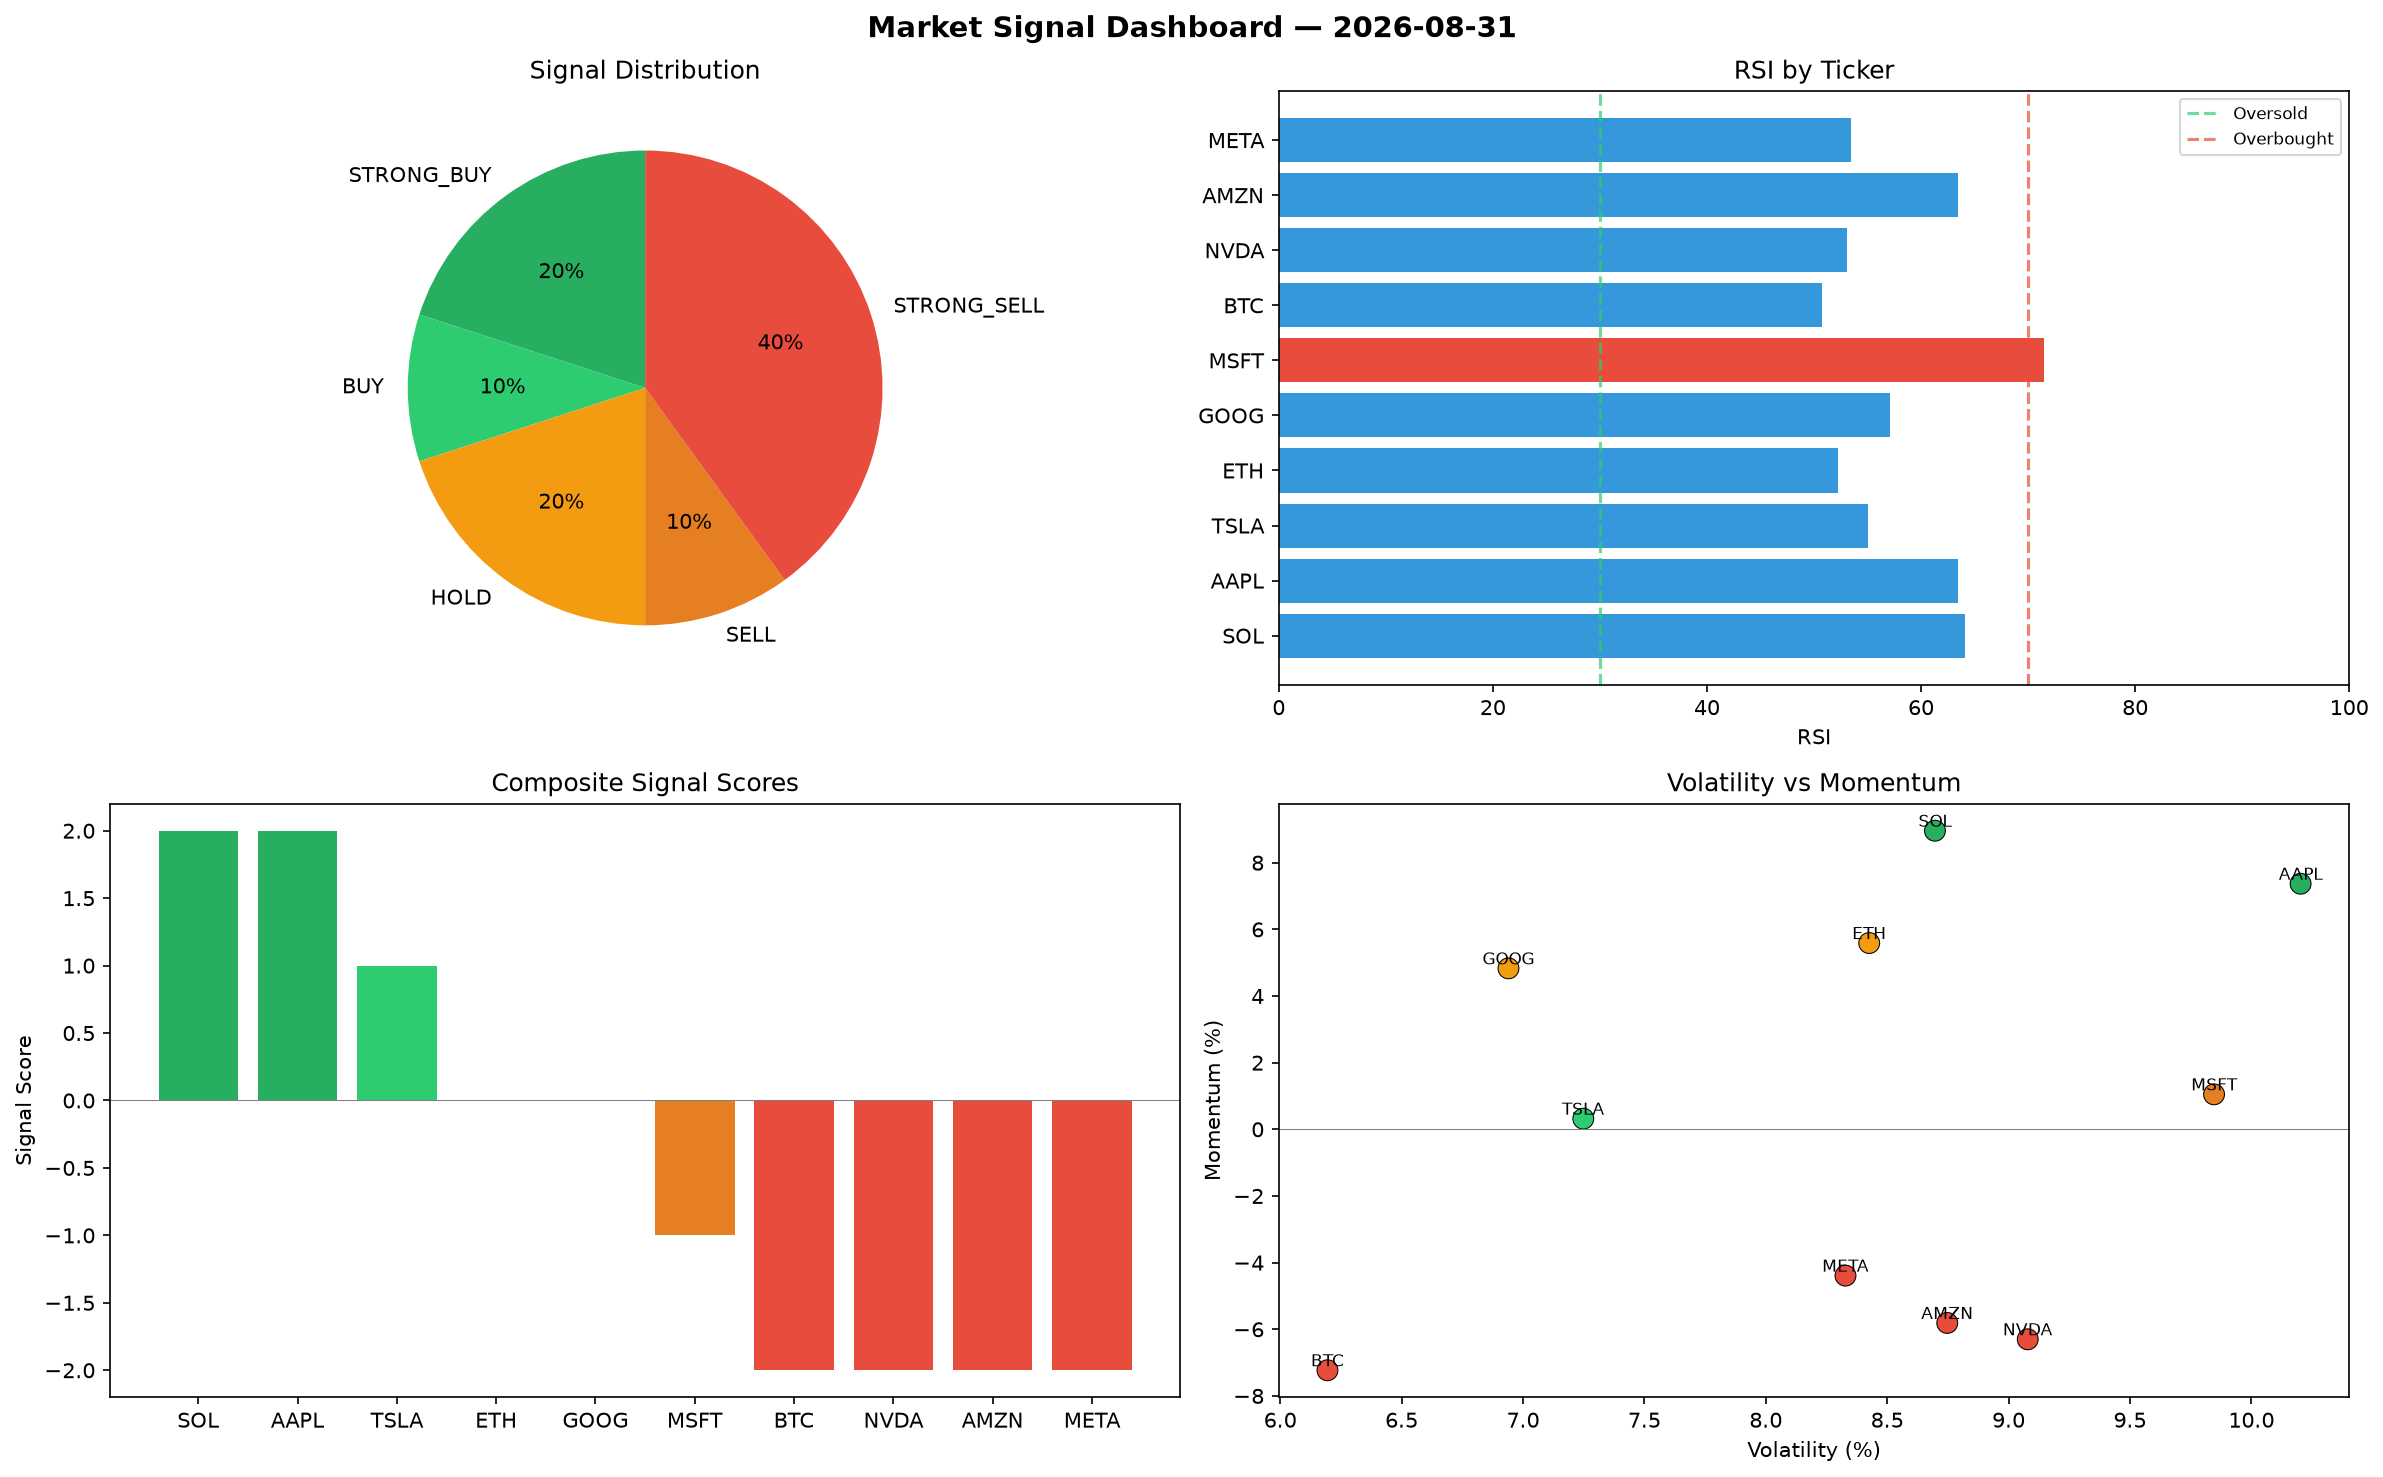
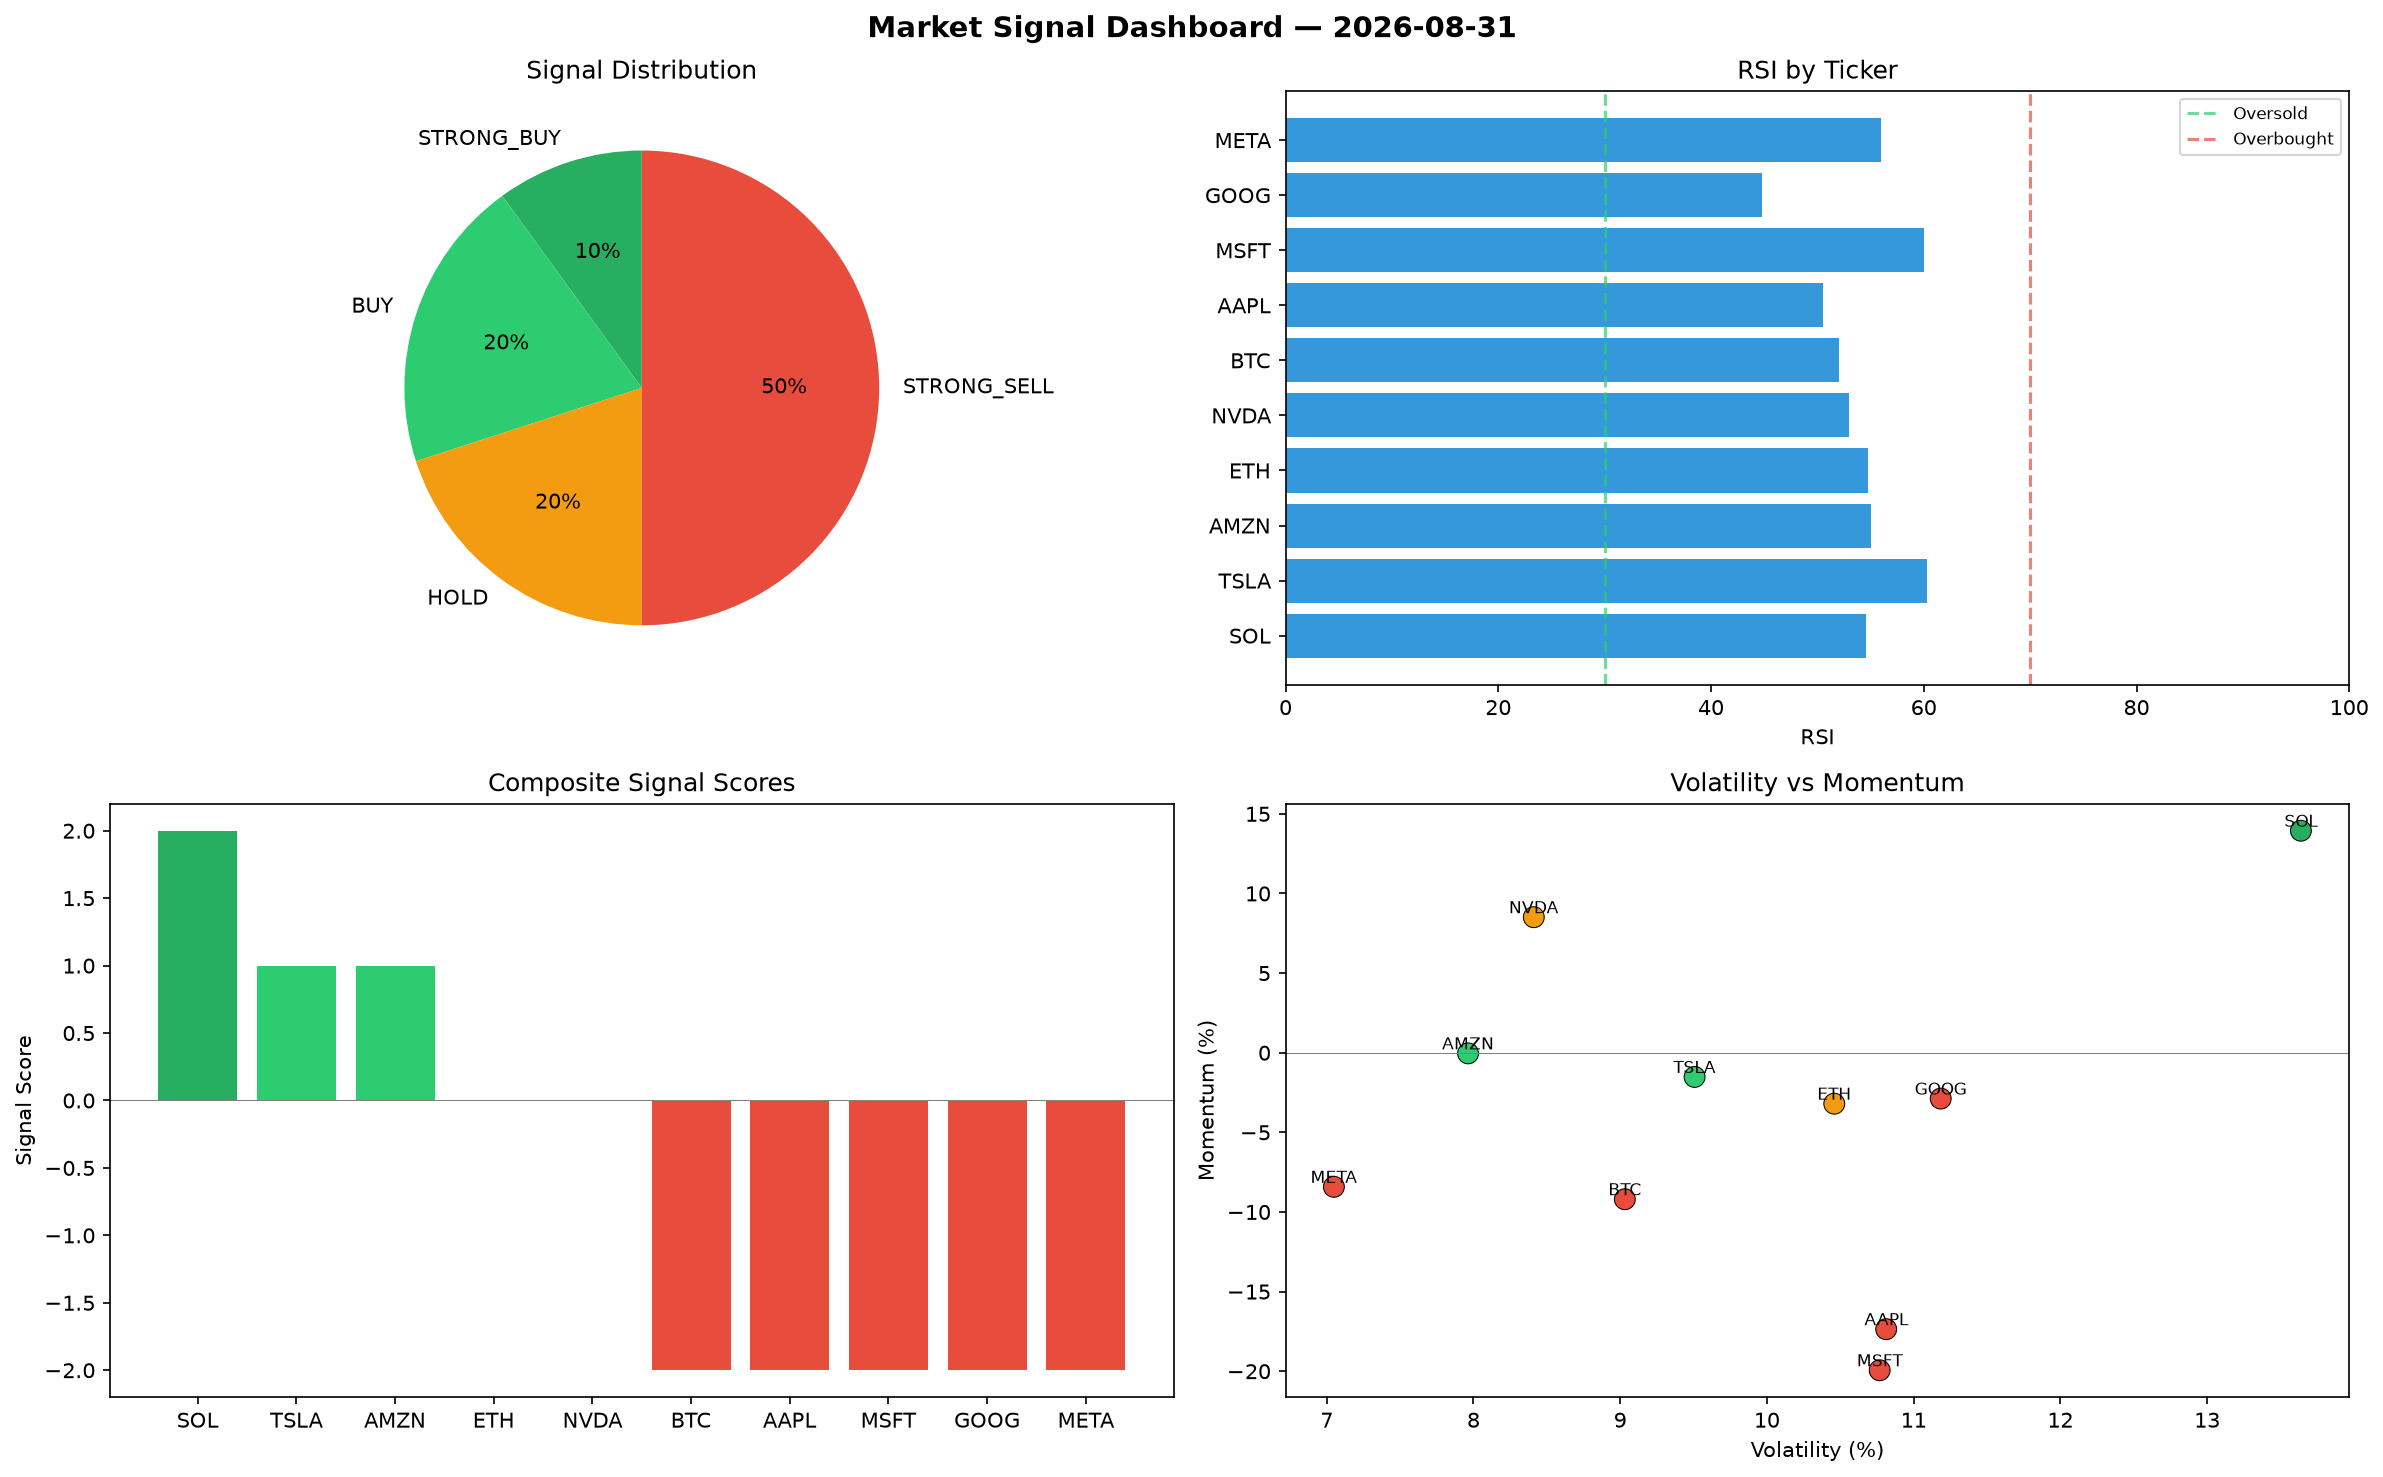
automated-bots: market signals 2026-08-31T16:15

diff --git a/logs/2026-08-31.md b/logs/2026-08-31.md
@@ -1,6 +1,6 @@
 # Market Signal Report — 2026-08-31
 
-**Run ID:** `09daf1e493` | **Buy:** 3 | **Sell:** 5 | **Hold:** 2
+**Run ID:** `d05f01ba79` | **Buy:** 3 | **Sell:** 5 | **Hold:** 2
 
 ![Dashboard](2026-08-31_dashboard.png)
 
@@ -8,28 +8,28 @@
 
 | Ticker | Price | Signal | Score | RSI | Momentum | Confidence |
 |--------|-------|--------|-------|-----|----------|------------|
-| SOL | $2164.23 | **STRONG_BUY** | 2 | 64.07 | 0.0896 | 0.5 |
-| AAPL | $4542.52 | **STRONG_BUY** | 2 | 63.42 | 0.0737 | 0.5 |
-| TSLA | $2847.34 | **BUY** | 1 | 55.07 | 0.0032 | 0.25 |
-| ETH | $433.03 | **HOLD** | 0 | 52.2 | 0.0559 | 0.0 |
-| GOOG | $1915.08 | **HOLD** | 0 | 57.11 | 0.0483 | 0.0 |
-| MSFT | $1346.23 | **SELL** | -1 | 71.51 | 0.0105 | 0.25 |
-| BTC | $861.51 | **STRONG_SELL** | -2 | 50.74 | -0.0723 | 0.5 |
-| NVDA | $3326.4 | **STRONG_SELL** | -2 | 53.09 | -0.063 | 0.5 |
-| AMZN | $1794.78 | **STRONG_SELL** | -2 | 63.48 | -0.0581 | 0.5 |
-| META | $60.82 | **STRONG_SELL** | -2 | 53.43 | -0.0439 | 0.5 |
+| SOL | $4711.24 | **STRONG_BUY** | 2 | 54.59 | 0.1394 | 0.5 |
+| TSLA | $1455.39 | **BUY** | 1 | 60.3 | -0.0152 | 0.25 |
+| AMZN | $1671.68 | **BUY** | 1 | 55.04 | -0.0004 | 0.25 |
+| ETH | $1105.88 | **HOLD** | 0 | 54.72 | -0.032 | 0.0 |
+| NVDA | $2701.8 | **HOLD** | 0 | 52.95 | 0.0851 | 0.0 |
+| BTC | $814.36 | **STRONG_SELL** | -2 | 52.03 | -0.092 | 0.5 |
+| AAPL | $2296.61 | **STRONG_SELL** | -2 | 50.5 | -0.1736 | 0.5 |
+| MSFT | $2553.68 | **STRONG_SELL** | -2 | 59.99 | -0.1994 | 0.5 |
+| GOOG | $885.58 | **STRONG_SELL** | -2 | 44.82 | -0.0288 | 0.5 |
+| META | $866.22 | **STRONG_SELL** | -2 | 55.98 | -0.0842 | 0.5 |
 
 ## Delta vs Yesterday
 
 | Ticker | Today | Yesterday | Price Change | Signal Changed |
 |--------|-------|-----------|-------------|----------------|
-| SOL | STRONG_BUY | STRONG_BUY | 📉 -56.43% | — |
-| AAPL | STRONG_BUY | STRONG_SELL | 📈 1076.15% | ⚠ YES |
-| TSLA | BUY | HOLD | 📈 7.04% | ⚠ YES |
-| ETH | HOLD | HOLD | 📉 -87.17% | — |
-| GOOG | HOLD | STRONG_BUY | 📉 -54.7% | ⚠ YES |
-| MSFT | SELL | STRONG_SELL | 📉 -37.74% | ⚠ YES |
-| BTC | STRONG_SELL | HOLD | 📉 -83.39% | ⚠ YES |
-| NVDA | STRONG_SELL | STRONG_SELL | 📈 39.81% | — |
-| AMZN | STRONG_SELL | STRONG_SELL | 📉 -30.33% | — |
-| META | STRONG_SELL | STRONG_BUY | 📉 -97.1% | ⚠ YES |
+| SOL | STRONG_BUY | STRONG_BUY | 📉 -5.14% | — |
+| TSLA | BUY | HOLD | 📉 -45.29% | ⚠ YES |
+| AMZN | BUY | STRONG_SELL | 📉 -35.11% | ⚠ YES |
+| ETH | HOLD | HOLD | 📉 -67.23% | — |
+| NVDA | HOLD | STRONG_SELL | 📈 13.56% | ⚠ YES |
+| BTC | STRONG_SELL | HOLD | 📉 -84.3% | ⚠ YES |
+| AAPL | STRONG_SELL | STRONG_SELL | 📈 494.64% | — |
+| MSFT | STRONG_SELL | STRONG_SELL | 📈 18.1% | — |
+| GOOG | STRONG_SELL | STRONG_BUY | 📉 -79.05% | ⚠ YES |
+| META | STRONG_SELL | STRONG_BUY | 📉 -58.71% | ⚠ YES |
